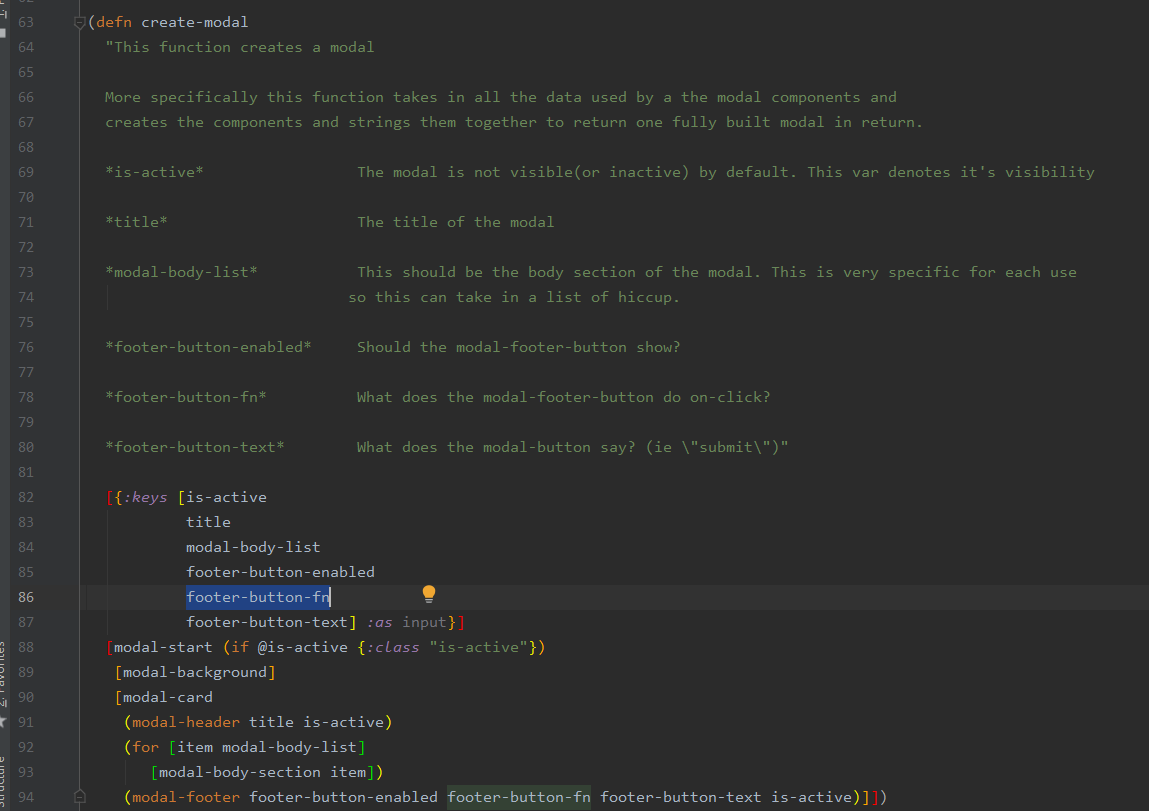
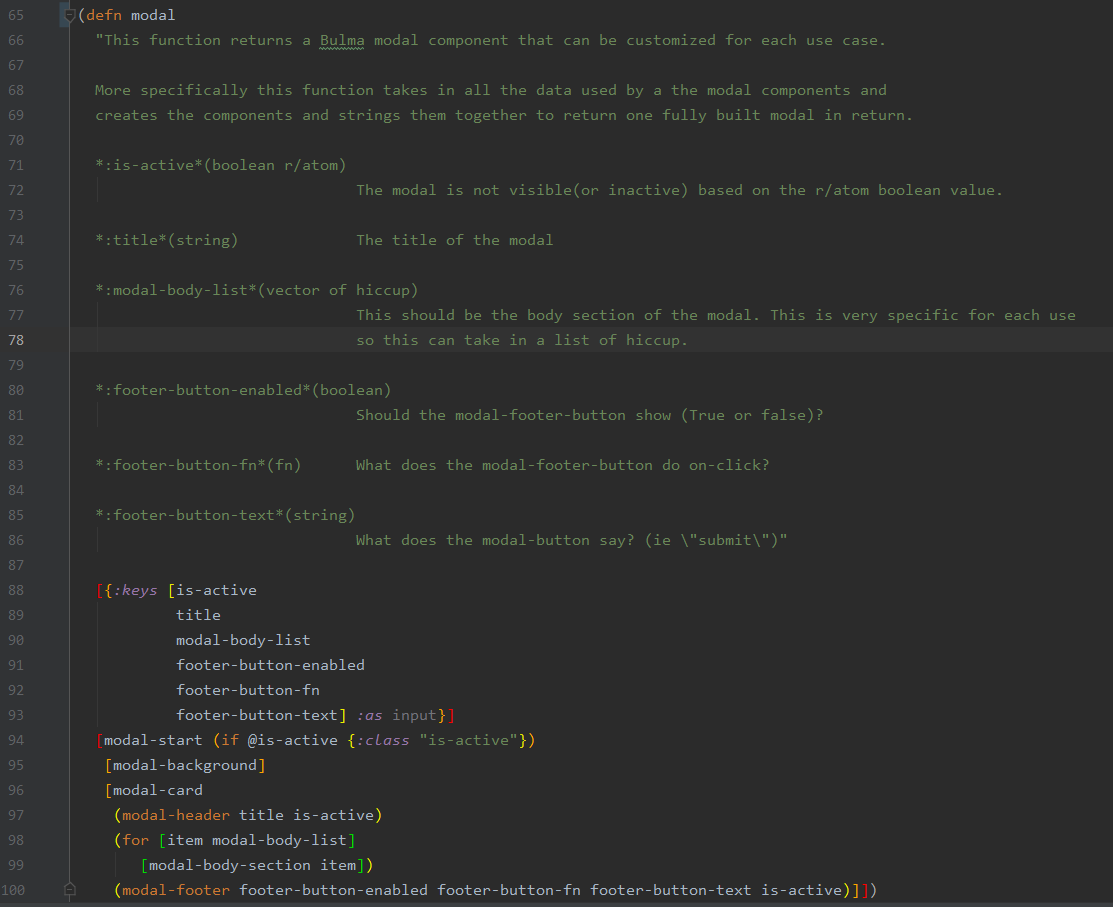
refactoring modal calling code, and updated documentation.

diff --git a/docs/modal_useage.md b/docs/modal_useage.md
@@ -3,6 +3,8 @@
 The modal usage is to be contained within the 
 [vanilla.modal](../src/cljs/vanilla/modal.cljs) namespace.
 
+The modal namespace uses the Bulma.io modal, found 
+[here](https://bulma.io/documentation/components/modal/).
 
 ### The Purpose
 
